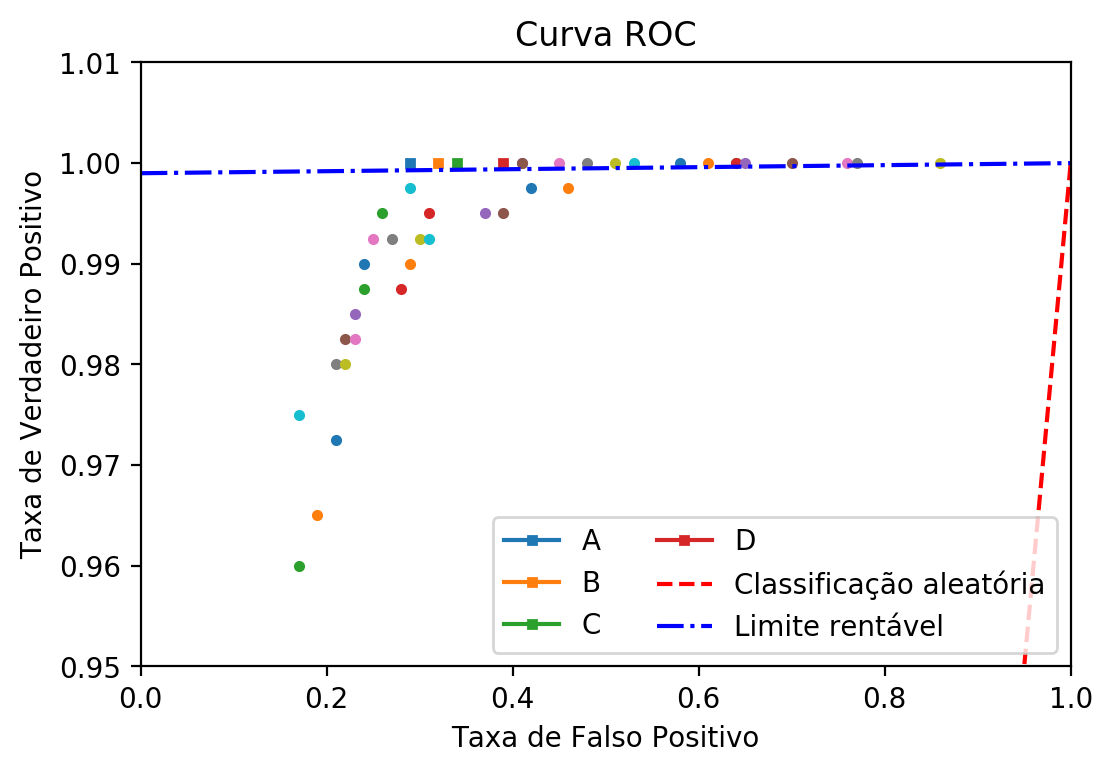
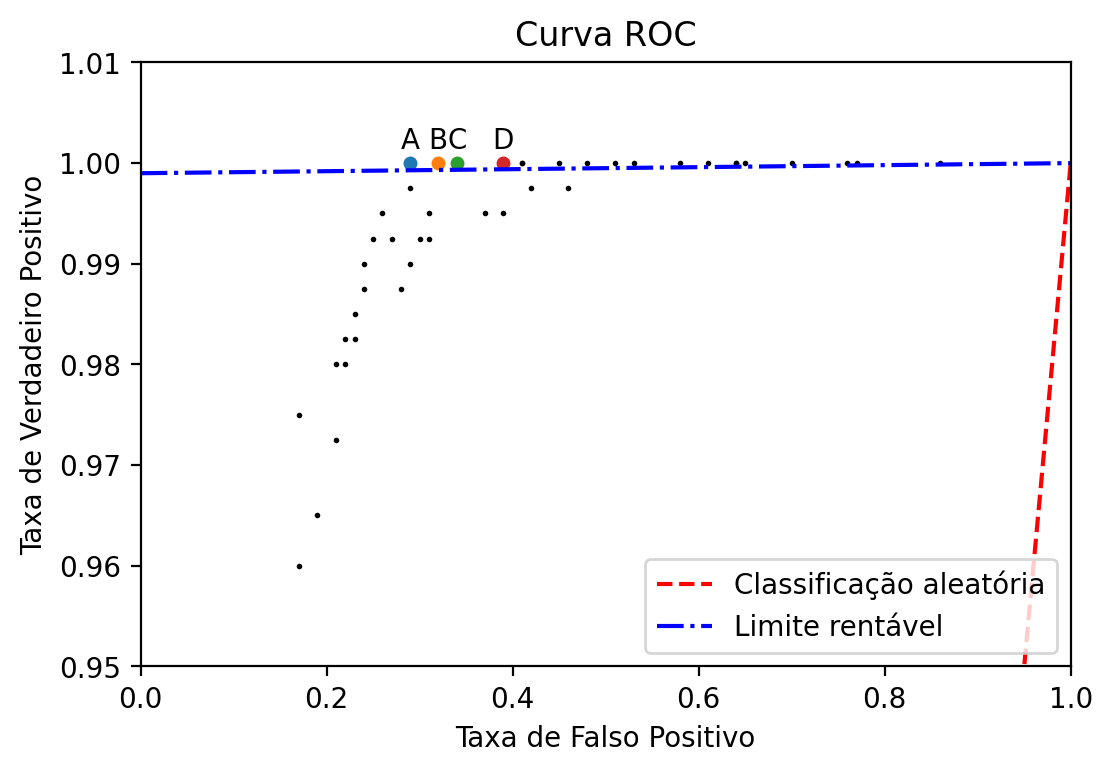
Improve results plot

diff --git a/capitulos/resultados.tex b/capitulos/resultados.tex
@@ -4,9 +4,10 @@ Após entender o funcionamento dos algoritmos e definir a metodologia para anál
 
 \begin{figure}[htbp]
     \centering
-    \caption{Resultados das classificações sobre o espaço ROC.}
+    \caption{Resultados das classificações sobre o espaço ROC.//
+        Os 4 resultados mais lucratívos são identificados por pontos coloridos e o restante por pontos pretos. Os parâmetros utilizados em cada resultado são listados na Tabela \ref{tab:results_identify}.}
     \includegraphics[scale=1]{figs/curva_roc_results.png}
-    \legend{Os 4 resultados mais lucratívos são identificados por quadrados e o restante por círculos. Os parâmetros utilizados em cada resultado são listados na Tabela \ref{tab:results_identify}.}
+    \legend{}
     \label{fig:results_roc}
 \end{figure}
 
